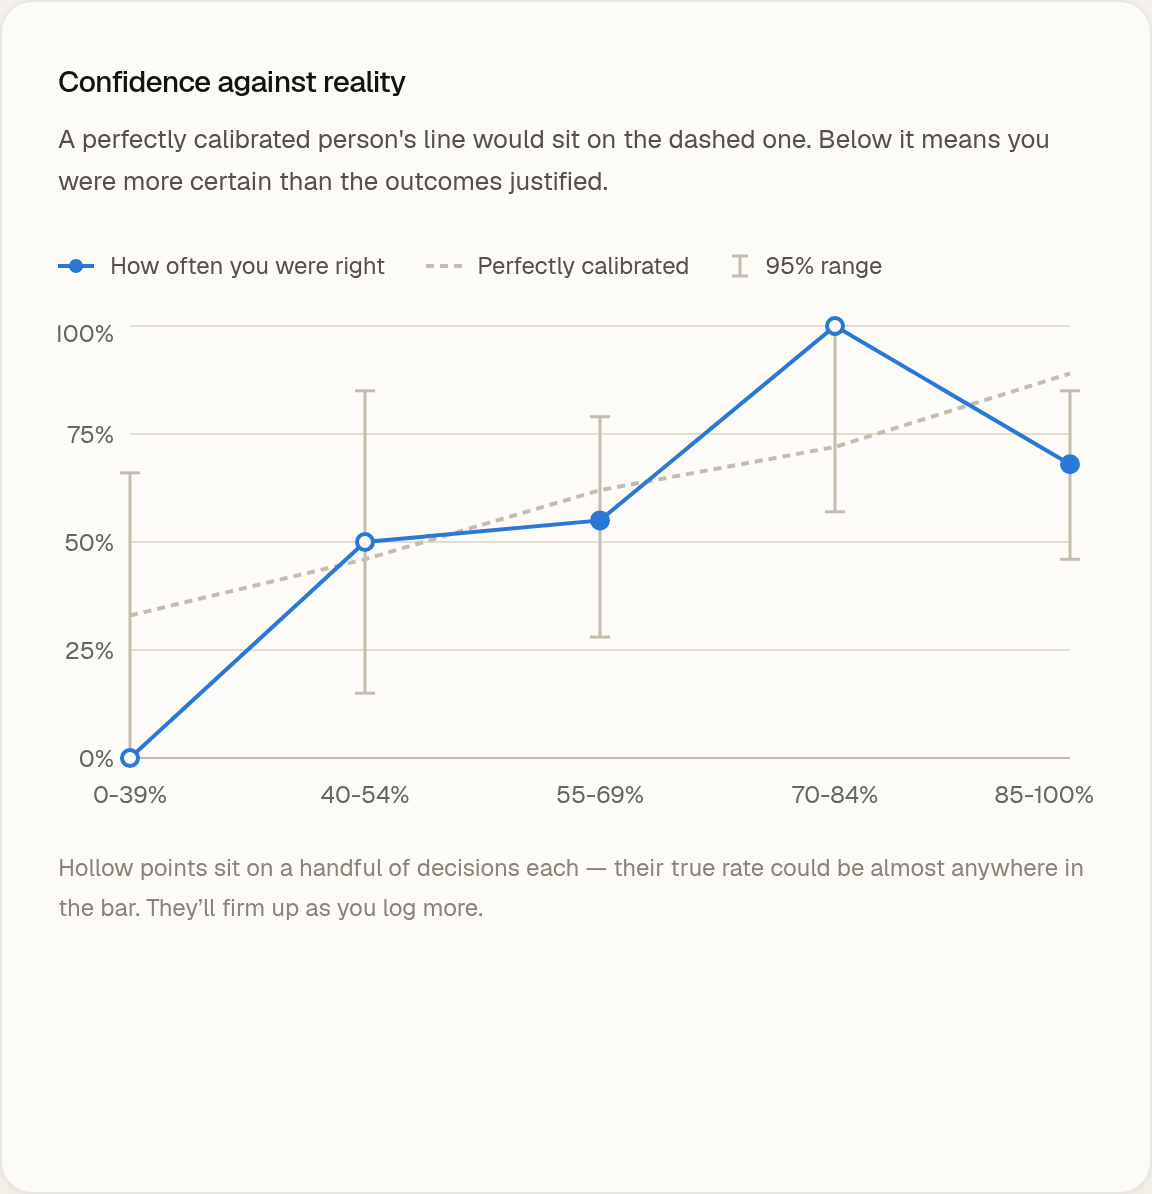
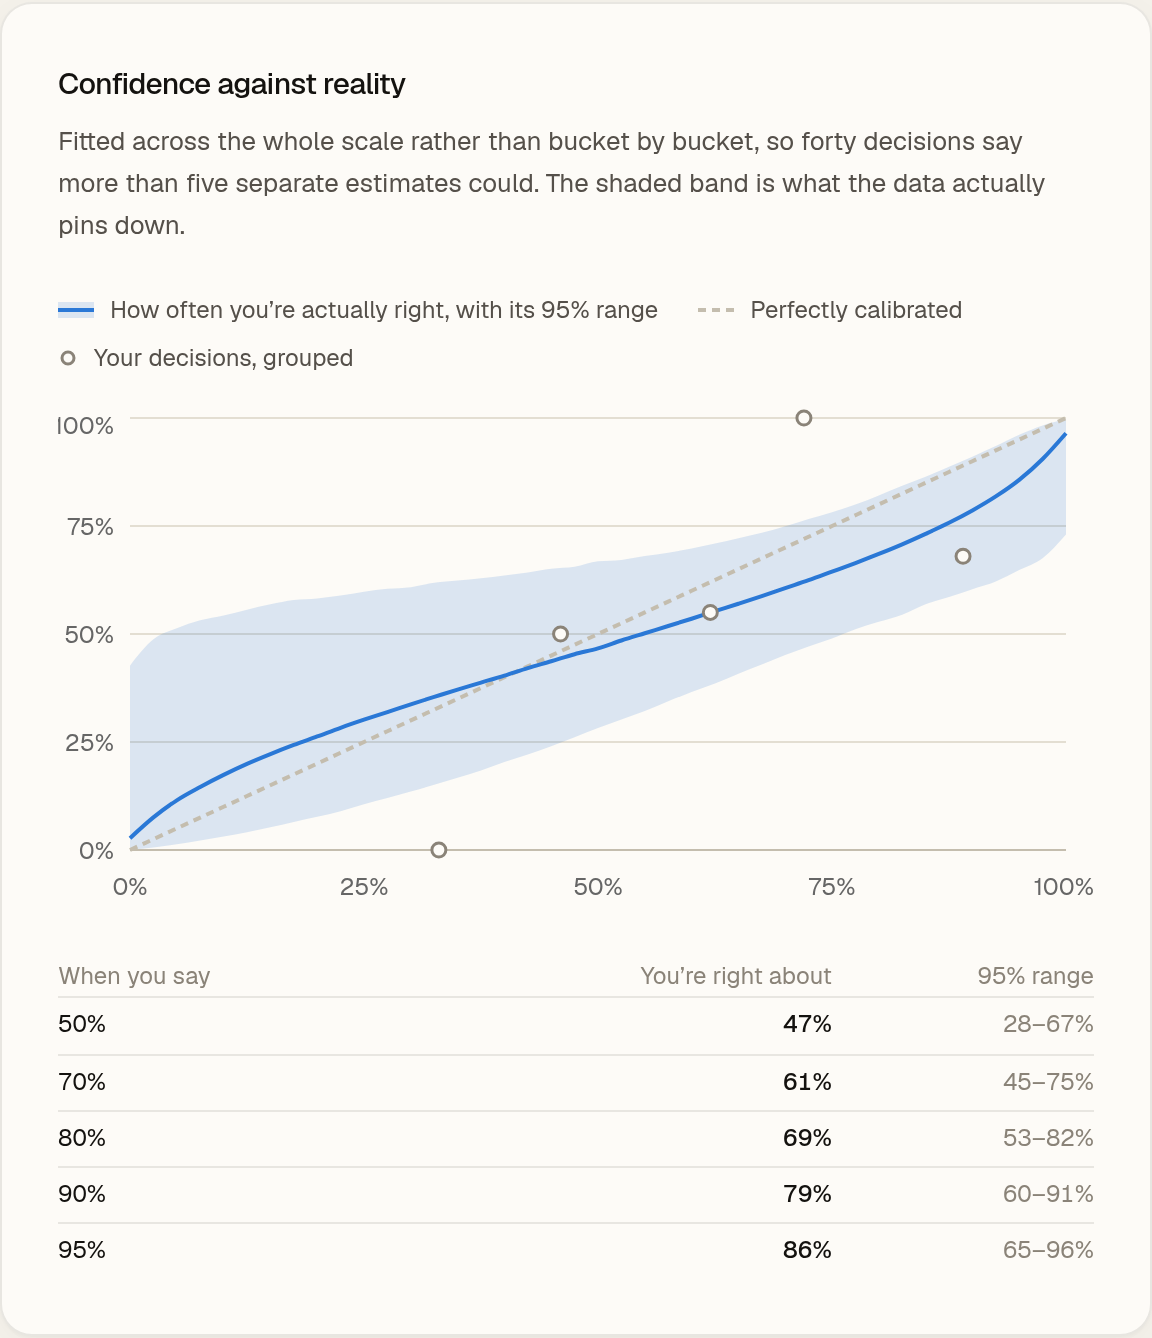
Let the fitted model settle whether the headline claims anything
Two inferences about the same question were running on one page: the
headline asked whether the gap cleared a Wilson half-width, the chart below
asked whether the posterior excluded perfect calibration. Nothing stopped
them disagreeing, and a verdict at the top over a curve saying the data
can't support it is exactly the incoherence this product exists to avoid.

The fitted model is the stronger inference, so it decides. The Wilson check
stays as the fallback for when there is no fit to consult.

Docs and screenshots follow the statistics: the fitted band, the honest
versus useful split, and the pooled categories.

diff --git a/src/app/page.tsx b/src/app/page.tsx
@@ -63,12 +63,17 @@ export default async function DashboardPage() {
   const gap = calibrationGap(resolved);
   const ece = expectedCalibrationError(resolved);
   const brier = brierScore(resolved);
-  const solid = gapIsMeaningful(resolved);
+  const fit = fitRecalibration(resolved);
+  // The headline and the fitted curve are two inferences about the same
+  // question, and they must not be able to disagree on one page — a verdict up
+  // top over a chart that says the data can't support it is exactly the
+  // incoherence this product exists to avoid. The fitted model is the stronger
+  // of the two, so it decides; the Wilson check only stands in when there is no
+  // fit to consult.
+  const solid = fit ? !fit.indistinguishableFromCalibrated : gapIsMeaningful(resolved);
   const { solo, consulted } = splitByConsultation(resolved);
   const memory = hindsight(resolved);
   const memorySignificance = hindsightSignificance(resolved);
-
-  const fit = fitRecalibration(resolved);
   const band = fit ? calibrationBand(fit) : null;
   const anchors = fit
     ? [50, 70, 80, 90, 95].map((stated) => ({ stated, ...recalibrate(fit, stated) }))

diff --git a/README.md b/README.md
@@ -37,14 +37,19 @@ of thing you can't tell yourself.
   split by how the decision turned out. Remembering more certainty after being right and
   less after being wrong are the same bias in opposite directions, so the spread between
   the two groups is what carries the significance test, not the raw average.
-- **Calibration curve** — your stated confidence plotted against how often each confidence
-  band actually turned out right, with 95% intervals.
+- **Calibration curve** — a fitted model of how your confidence is distorted, drawn as a
+  posterior band. Not five separate bucket estimates, so forty decisions say more.
+- **A recalibration you can act on** — "when you feel 90%, the honest number is 79%",
+  rather than an average gap you can't do anything with.
+- **Honest versus useful** — Murphy's decomposition plus discrimination, because being
+  well calibrated and being worth listening to are different achievements.
 - **Pattern analysis** — a pass over every resolved entry that looks for *why* the
   gap is there: the phrases you reach for, the categories where certainty runs ahead of
   evidence, the situations where you don't check your thinking. It carries the timestamp
   it ran at, and flags itself stale when decisions resolve afterwards.
-- **Per-category calibration** — where you're off, not just whether. Categories below five
-  resolved decisions are shown with their n but never ranked.
+- **Per-category calibration** — where you're off, not just whether. Thin categories are
+  pooled towards your overall accuracy rather than hidden, by an amount fitted from
+  whether the categories differ by more than chance would produce.
 - **Ready to resolve** — anything past the date you said you'd know is surfaced first,
   because an unresolved journal quietly stops measuring anything.
 - **Export** — every entry plus the computed metrics, as JSON or CSV.
@@ -58,6 +63,20 @@ anything — it works on the reasoning text, which is the part statistics can't 
 
 A tool about overconfidence has no business being overconfident, so:
 
+- **The model is fitted, and its uncertainty is drawn.** Stated confidence maps to reality
+  through `sigma(a * logit(p) + b)` — two parameters rather than five loose bucket rates,
+  fitted over a grid so the posterior is exact, deterministic and testable without a
+  sampler. The prior is centred on *perfect calibration* rather than on the population
+  tendency to be overconfident: in a tool about not overclaiming, the prior must not
+  assume the conclusion.
+- **Simulation-based calibration.** The inference is checked by generating journals from
+  known distortions, refitting, and confirming the intervals contain the truth about as
+  often as they claim to. An interval quietly too narrow is the failure nothing else
+  would catch.
+- **No degenerate intervals.** Bootstrapping the AUC collapses to [1, 1] under perfect
+  separation, so four decisions that happened to sort cleanly would read as proven skill.
+  The interval is taken over the comparisons actually available instead, bounded by the
+  smaller outcome group.
 - **Wilson intervals on every bucket.** A confidence band holding three decisions gets an
   error bar covering most of the scale, and renders hollow instead of solid.
 - **Brier score and expected calibration error**, not just a hit rate. ECE is there because
@@ -150,7 +169,7 @@ npm run analyze
 npm test
 ```
 
-102 tests. The calibration maths (bucket boundaries, Wilson intervals, Brier score, the ECE
+161 tests. The calibration maths (bucket boundaries, Wilson intervals, Brier score, the ECE
 cancellation case, empty-journal paths), form validation including the UTC date bug and
 impossible dates like `2026-02-31`, and the model-response parsing contract — that last one
 runs without an API key, since malformed output is the failure most likely to reach a user.
@@ -213,6 +232,8 @@ into the slow decisions that actually matter.
 Next.js 16 (App Router) · React 19 · TypeScript · Tailwind 4 · Prisma + SQLite · Recharts ·
 Gemini API · Vitest
 
-Statistics: Wilson score intervals, Brier score, expected calibration error, a permutation
-test for the hindsight spread. Integrity: SHA-256 hash chain over canonicalised events,
+Statistics: a grid-fitted Bayesian recalibration model with credible bands, Murphy's
+decomposition of the Brier score, discrimination (AUC) with a non-degenerate interval,
+partial pooling across categories, Wilson score intervals, expected calibration error, and
+a permutation test for the hindsight spread. Integrity: SHA-256 hash chain over canonicalised events,
 with the read model replayed and diffed against it.

diff --git a/SUBMISSION.md b/SUBMISSION.md
@@ -79,9 +79,19 @@ with someone carry almost the same stated confidence — and land very different
   between the outcome groups carries the test, not the raw average. Peeking is
   allowed, recorded, and disqualifies that entry from the statistic.
 
-- **Calibration curve** with 95% Wilson intervals, so you can see how much the data
-  actually supports. Buckets with too few decisions render hollow rather than
-  pretending to be findings.
+- **A fitted calibration model, drawn as a posterior band.** Stated confidence maps
+  to reality through `sigma(a * logit(p) + b)` — two parameters instead of five
+  independent bucket rates, so a journal-sized sample says far more. Fitted over a
+  grid: exact, deterministic, and testable without a sampler. It produces the output
+  buckets cannot — "when you feel 90%, the honest number is 79%" — and its prior is
+  centred on perfect calibration rather than on the population tendency to be
+  overconfident, so the app never assumes the finding it is looking for.
+- **Checked by simulation-based calibration.** Generate journals from known
+  distortions, refit, confirm the intervals contain the truth as often as they claim.
+- **Honest and useful are separated.** Murphy's decomposition splits the Brier score
+  into miscalibration, discrimination, and the difficulty of what you chose to
+  predict. Someone who says 60% to everything and is right 60% of the time is
+  perfectly calibrated and useless; the old dashboard congratulated them.
 - **Proper scoring, not just a hit rate.** Brier score and expected calibration error
   sit alongside the headline gap. ECE matters because the intuitive number — mean
   confidence minus accuracy — *cancels*: being overconfident at one end of the scale
@@ -103,9 +113,10 @@ with someone carry almost the same stated confidence — and land very different
   fortune-cookie output. Every figure in the shipped run was checked against the
   database and matches exactly — the statistics are computed in code and handed to
   the model, which never counts anything itself.
-- **Per-category calibration**, so the finding is "you're bad at career predictions"
-  rather than "you're bad at predicting". Thin categories show their n and are never
-  ranked.
+- **Per-category calibration with partial pooling**, so the finding is "you're bad at
+  career predictions" rather than "you're bad at predicting" — and a category of
+  three decisions is pulled towards your overall rate in the open, by a visible
+  amount, rather than shown at 100% and quietly excluded from the ranking.
 - **Stale-analysis detection** — the read knows when decisions have resolved since it
   last ran, and says so instead of quietly showing an out-of-date answer.
 - **Export** to JSON or CSV, entries plus computed metrics.
@@ -121,7 +132,7 @@ with someone carry almost the same stated confidence — and land very different
 - **Pluggable inference** — a local model via **Ollama** by default, **Google Gemini**
   (`@google/genai`) only on explicit per-run consent. One response schema, translated
   per backend, re-validated with **Zod** server-side
-- **Vitest** — 102 tests over the calibration maths, the hash chain and its
+- **Vitest** — 161 tests over the calibration maths, the hash chain and its
   canonical encoding, every invalid state transition in the projection, form
   validation, and the model-response parsing contract
 - Statistics: Wilson score intervals, Brier score, expected calibration error, and a
